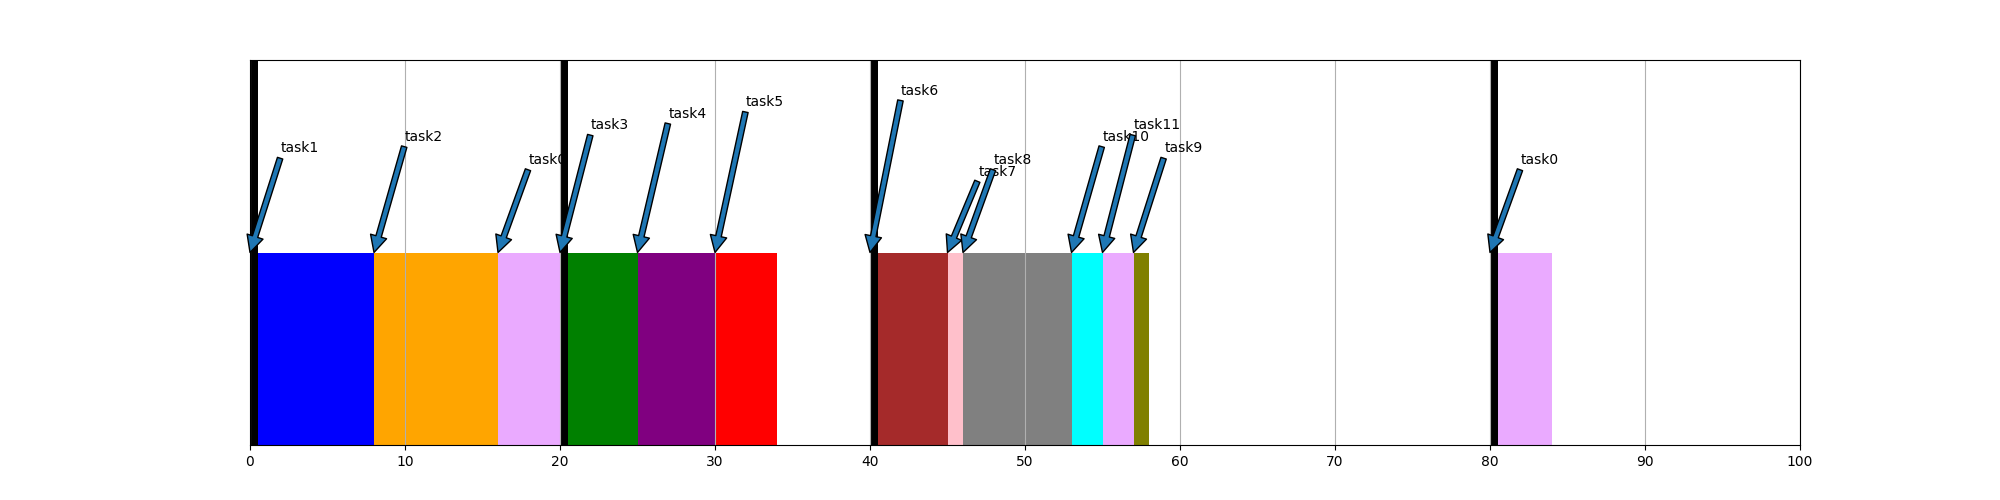
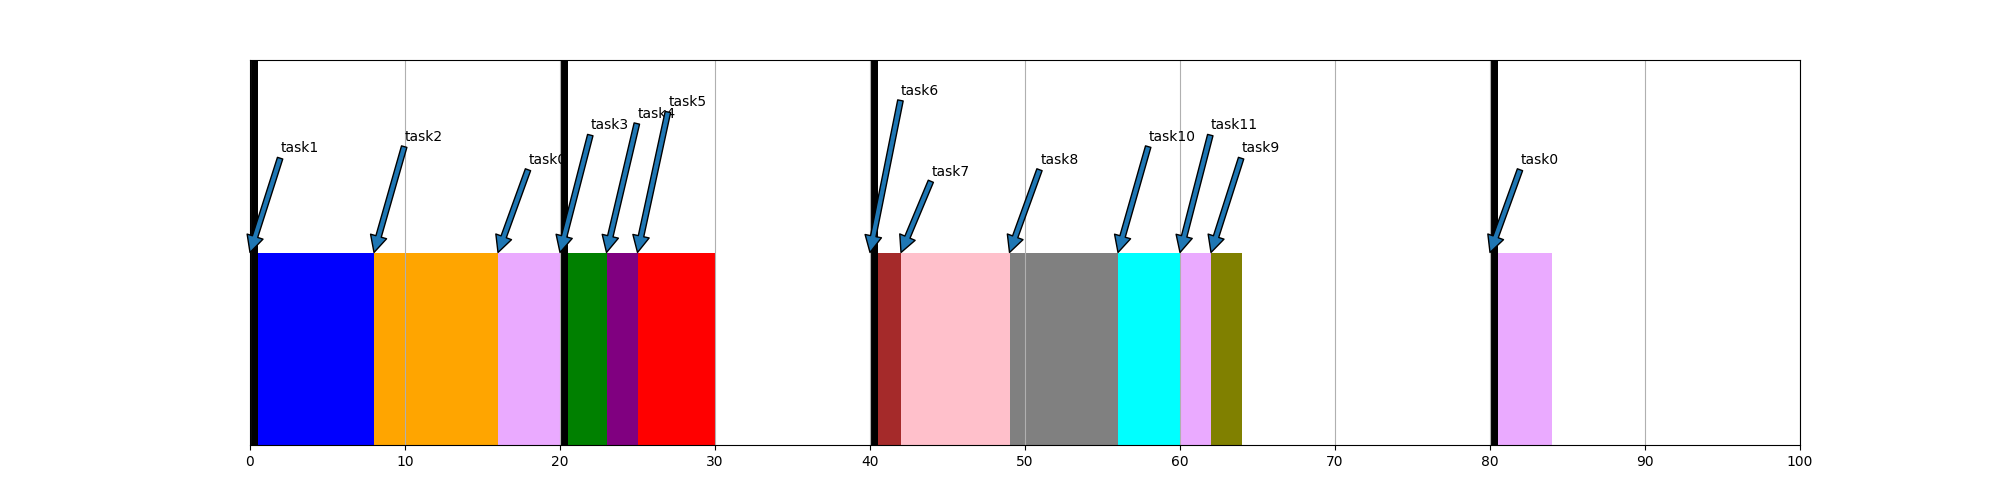
Hope finish case left part error

Changed region(s): [[0.434, 0.24, 0.651, 0.9], [0.279, 0.18, 0.403, 0.9]]

diff --git a/First_run.py b/First_run.py
@@ -72,10 +72,13 @@ def rename_separate_tasks(DICT):
 
 
 def create_map_window_to_task_name(DICT, TASK_INTERVALS, WINDOWS_SCHEDULE) -> None:
+    set_of_sep_tsk = set()
+
     for tsk in TASK_INTERVALS:
         SEPARATE_TASK = False
         if len(TASK_INTERVALS[tsk]) > 2: 
             SEPARATE_TASK = True
+            set_of_sep_tsk.add(tsk)
         if SEPARATE_TASK:  
             t_begin_1 = TASK_INTERVALS[tsk][0]
             t_begin_2 = TASK_INTERVALS[tsk][2]
@@ -105,6 +108,7 @@ def create_map_window_to_task_name(DICT, TASK_INTERVALS, WINDOWS_SCHEDULE) -> No
                     else:
                         DICT[WINDOWS_SCHEDULE[num_win]].append(tsk)
                     break
+    return set_of_sep_tsk
                     
 
 def create_double_visualization(filename1, filename2, task_crasshed_id): 
@@ -215,6 +219,16 @@ def write_nvp_xml(graph_main_crash, MF_PERIOD, windows_nvp, second_main_app_grap
         graph_fixator = ig.Graph(n=len(windows_nvp)//3)
         graph_fixator.vs["duration"] = [FIXATOR_TIME for _ in range(len(windows_nvp)//3)]
         graph_fixator.vs["name"] = [str(i) for i in graph_fixator.vs.indices]
+
+        # case with separated tasks -- we eliminate right part of task, bcs whole task will be in reserve
+        # --------------------------------------------------------------------------------------------------------------
+        for i in graph_main_crash.vs.indices:
+            if i in SET_OF_SEPARATED_TASKS:
+                tmp_lst = list(map(int ,inter_int[i][0:2]))
+                graph_main_crash.vs[i]["duration"] = tmp_lst[1] - tmp_lst[0]
+        # --------------------------------------------------------------------------------------------------------------
+
+
 
 
         # So now we have 4 graphs for:
@@ -358,7 +372,7 @@ print(separate_tak_intervals)
 
 
 MAP_WINDOW_TASK = {}
-create_map_window_to_task_name(DICT=MAP_WINDOW_TASK, TASK_INTERVALS=separate_tak_intervals, WINDOWS_SCHEDULE=WINDOWS)
+SET_OF_SEPARATED_TASKS = create_map_window_to_task_name(DICT=MAP_WINDOW_TASK, TASK_INTERVALS=separate_tak_intervals, WINDOWS_SCHEDULE=WINDOWS)
 
 
 
@@ -458,6 +472,7 @@ for i in range(len(window_crash_task_set)):
 graph_main_crash.add_edges(main_window_crash_graph_edges)
 main_window_crash_task_time = [GRAPH_INITIAL_APP.vs[i]["duration"] for i in range(len(GRAPH_INITIAL_APP.vs)) if i in window_crash_task_set]
 graph_main_crash.vs["duration"] = main_window_crash_task_time
+
 # --------------------------------------------------------------------------------------------------------------
 
 
